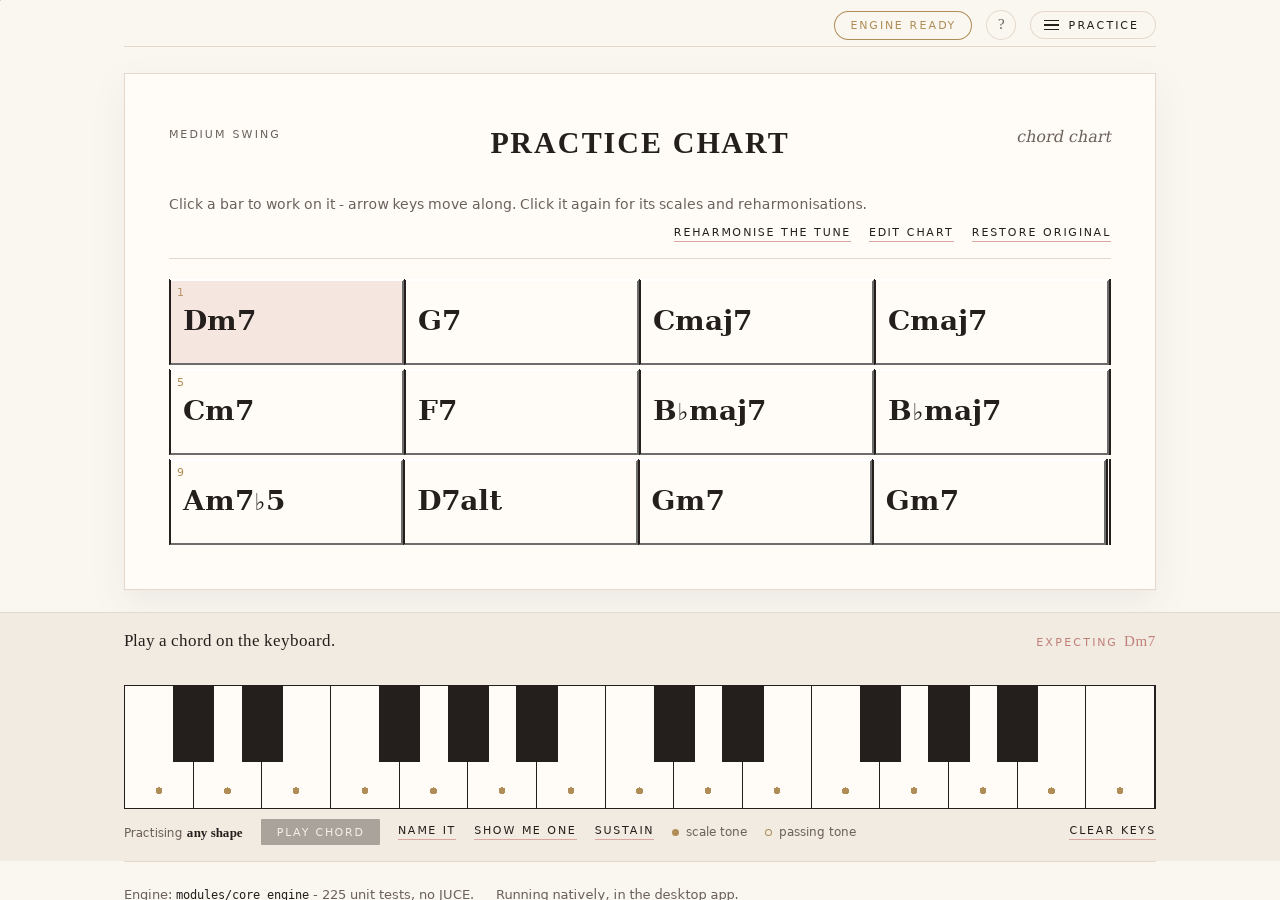
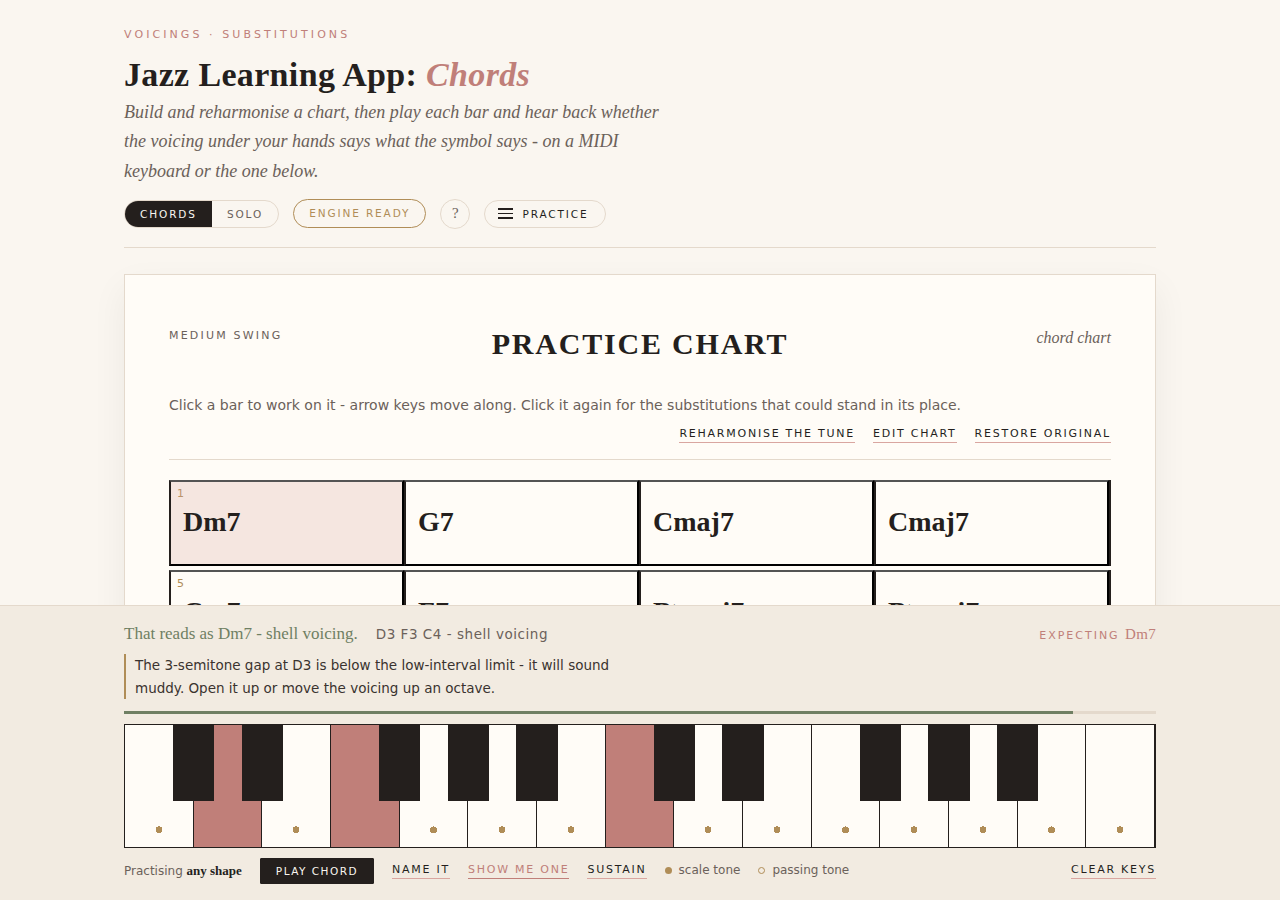
Stop CLAUDE.md describing a UI that was deleted, and reshoot the screenshots
Reported, and correct: two sections still told a session to build the JUCE
component UI that was removed when the webview took over. "UI Strategy"
described size classes over JUCE FlexBox and a scale picker implemented as
one component with a presentation mode; "Working Conventions" said to match
`juce::Component` lifecycle and `resized()`/`paint()`. The behaviour those
described is still right - a dialog where there is room, a bottom sheet
where there is not - but the mechanism has been CSS for a long time, and
the Architecture section three screens earlier says not to build the thing
they were pointing at.

Checking them turned up a third the report had not: "Paint and layout must
not each do the arithmetic" names `PracticeMenu::layout` and
`MainComponent::frame`, and neither class exists any more. The bug it warns
about cannot happen now, and its live descendant - two wordings that each
computed their own height and made the chart jump - is already written up as
`.mode-stack`. Deleted rather than retargeted.

Two smaller ones while in there. The design PDF is at `docs/`, not the repo
root as CLAUDE.md said, and the pointer now says what it actually is: the
scope set before any of this was built, older than the webview, solo
practice and most of the engine. Where it and this file disagree, it is the
older one.

Some details in the rewrite are corrections rather than restatements, found
by checking the page rather than the prose: there is one breakpoint at
[…]

diff --git a/CLAUDE.md b/CLAUDE.md
@@ -17,9 +17,12 @@ Two core modules make up the POC:
    against a loaded chart and get feedback on whether the voicing played matches the chord
    symbol's intent, with suggestions to improve it.
 
-Full feature rationale and rationale for design decisions live in
-`jazz_learning_app_design.pdf` (design doc) — treat that as the source of truth for *why*,
-and this file as the source of truth for *how to work in the repo*.
+`docs/jazz_learning_app_design.pdf` is the original design doc. Treat it as the source of
+truth for the *original* why - the scope that was set before any of this was built - and
+not for how anything works now. Everything decided since is in this file and in
+`README.md`, and where the two disagree the PDF is the older one: it predates the move to
+a webview UI, solo practice, and most of what the engine does. This file is the source of
+truth for how to work in the repo.
 
 ## Architecture — Read This Before Adding Code
 
@@ -68,27 +71,38 @@ Rules of thumb when writing or reviewing code:
 
 ## UI Strategy: One Responsive UI, Not Per-Platform UIs
 
-There is a single shared UI component library across desktop and mobile — not separate
-UI codebases. Components adapt via **size classes** (compact / regular / expanded) using
-JUCE's FlexBox/Grid, not hardcoded pixel layouts.
+There is one interface and it is `web/index.html` - the same file in the desktop app and
+on the website. Not a shared component library: literally one document. So "responsive"
+here means CSS, and every mechanism below is the page's own. This section used to describe
+JUCE FlexBox, size classes and `juce::Component`s, which is what the UI was built from
+before the webview carried everything; none of that survived the move, and a session
+following it would rebuild exactly the thing the Architecture section says not to.
 
-When building or modifying a UI component, account for:
+- **One breakpoint, at 760px.** Below it the sheet head centres, the bars grow, and every
+  dialog becomes a bottom sheet rather than a floating panel. That is the whole of it -
+  there are no compact / regular / expanded size classes. Add a second breakpoint only
+  when something actually collides, which `JAZZ_UI_SIZE=430x860` or a 430px viewport is
+  for.
+- **Interaction affordances differ by input type, not by platform**, and the page gets
+  that from the same rule rather than from a decision: the scale picker is a floating
+  dialog where there is room and a bottom sheet where there is not, and it is one dialog
+  either way. Do not write a second version of a screen for touch.
+- **Mode-specific anything is `data-mode` plus `applyMode`**, never a second component -
+  see *Both modes* below. The same goes for anything that differs between the two shells:
+  `onTheWeb`, not a fork.
+- **The on-screen keyboard is a first-class input method, not a fallback.** Two octaves by
+  default; a connected MIDI keyboard widens it to four, and a note played outside that
+  widens it further, so a two-handed voicing is never partly off the end. There is no
+  octave-shift control - the widening replaced the need for one. In chord practice the
+  keys latch, so fingers landing one after another add up to one voicing with no
+  multi-touch event handling anywhere; in solo practice they do not latch, because a line
+  is played rather than held.
+- **Tap targets are sized for touch at every width**, not only below the breakpoint, so
+  there is no "touch mode" to get out of step with.
 
-- **Layout breakpoints** — multi-pane views (e.g. chart + analyzer side-by-side) collapse
-  to tabbed/stacked views below a width threshold.
-- **Interaction affordances differ by input type, not by platform** — e.g. the reharm
-  assistant's scale picker is a dropdown on desktop/mouse, a bottom sheet on touch. Same
-  underlying component, different presentation — implement as one component with a
-  presentation mode, not two components.
-- **On-screen keyboard** is a first-class input method, not a fallback. It must support
-  **multi-touch chord entry**: simultaneous touches should register as one voicing event,
-  not a stream of individual note-on messages. Default visible octave range is
-  size-class–dependent (1–2 octaves, octave-shiftable, on compact/mobile).
-- **Popups/modals**: desktop can use hover states and small floating popups; touch needs
-  larger tap targets and full-sheet modals.
-
-Do not introduce a second, platform-specific UI layer without discussing it first — this
-was a deliberate scope decision to keep a solo/small-team POC maintainable.
+Do not introduce a second, platform-specific UI layer - a JUCE screen, a native sheet, a
+separate stylesheet for mobile. That was a deliberate scope decision, and the JUCE
+component UI was removed to honour it.
 
 ## Input Scope (Current Phase)
 
@@ -434,9 +448,12 @@ If work touches one of these, flag the ambiguity rather than silently picking a 
   wire it into UI components second.
 - When adding a new UI component, default to one component with size-class-aware
   behavior rather than platform-conditional forks.
-- Match existing JUCE idioms in the codebase (Projucer-generated project structure,
-  `juce::Component` lifecycle, `resized()`/`paint()` conventions) rather than introducing
-  new patterns.
+- **JUCE idioms apply to the shell, and the shell is small.** `WebUi` is the only
+  `juce::Component` with a layout worth the name - it holds the webview and little else -
+  and `MidiDeviceInput` is the only other JUCE class with any UI, for the Bluetooth
+  pairing sheet. Match JUCE's conventions there. Everywhere else "the UI" means
+  `web/index.html`, and a new `resized()` or `paint()` is a sign something is being built
+  in the wrong layer.
 - **A wider chord vocabulary is not a better one.** `ChordIdentifier` scores every name it
   knows against the notes, so each one added competes with all the rest — and a name no
   player writes still wins whenever it happens to account for every note. Adding the
@@ -460,11 +477,6 @@ If work touches one of these, flag the ambiguity rather than silently picking a 
   exceed what one hand can reach. Without the first, the app hands you a voicing and then
   marks it wrong; without the second, it hands you one nobody can play. Changing a shape
   table means re-running those, not just the tests for the shape you touched.
-- **Paint and layout must not each do the arithmetic.** Several components here draw
-  headings and lay out buttons down the same column, and when `paint` and `resized` each
-  counted the heights themselves they drifted apart the first time a row changed size.
-  Each of those now works its positions out once — `PracticeMenu::layout`,
-  `MainComponent::frame` and the rest — and both read the result.
 - **Check the narrow window before calling a layout done.** Everything that overlapped on
   a phone-sized window looked perfect on a desktop one: the sheet head, the chart tools
   and the dock's buttons all collided at 420px while being fine at 1200px.

diff --git a/README.md b/README.md
@@ -8,7 +8,7 @@ This repository is the proof of concept for the two core modules in
 **Reharmonisation Assistant** and the **Real-Time Chord/Voicing Analyzer**, sharing one
 responsive UI and one UI-agnostic theory engine.
 
-![Desktop layout](docs/screenshot-desktop.png)
+![Chord practice: a shell voicing read back, with the low-interval limit flagged](docs/screenshot-desktop.png)
 
 ## Layout
 
@@ -110,6 +110,8 @@ to the original harmony outwards, each with a difficulty tag and a rationale. Ch
 rewrites the bar.
 
 ### Solo practice
+
+![Solo practice: a take in progress, each bar scored, an enclosure landing](docs/screenshot-solo.png)
 
 The keys do not latch here, because a line is played rather than held: each note sounds,
 is read back - **E4 - the 9th, scale tone, in D Dorian** - and lets go. Every note is read
